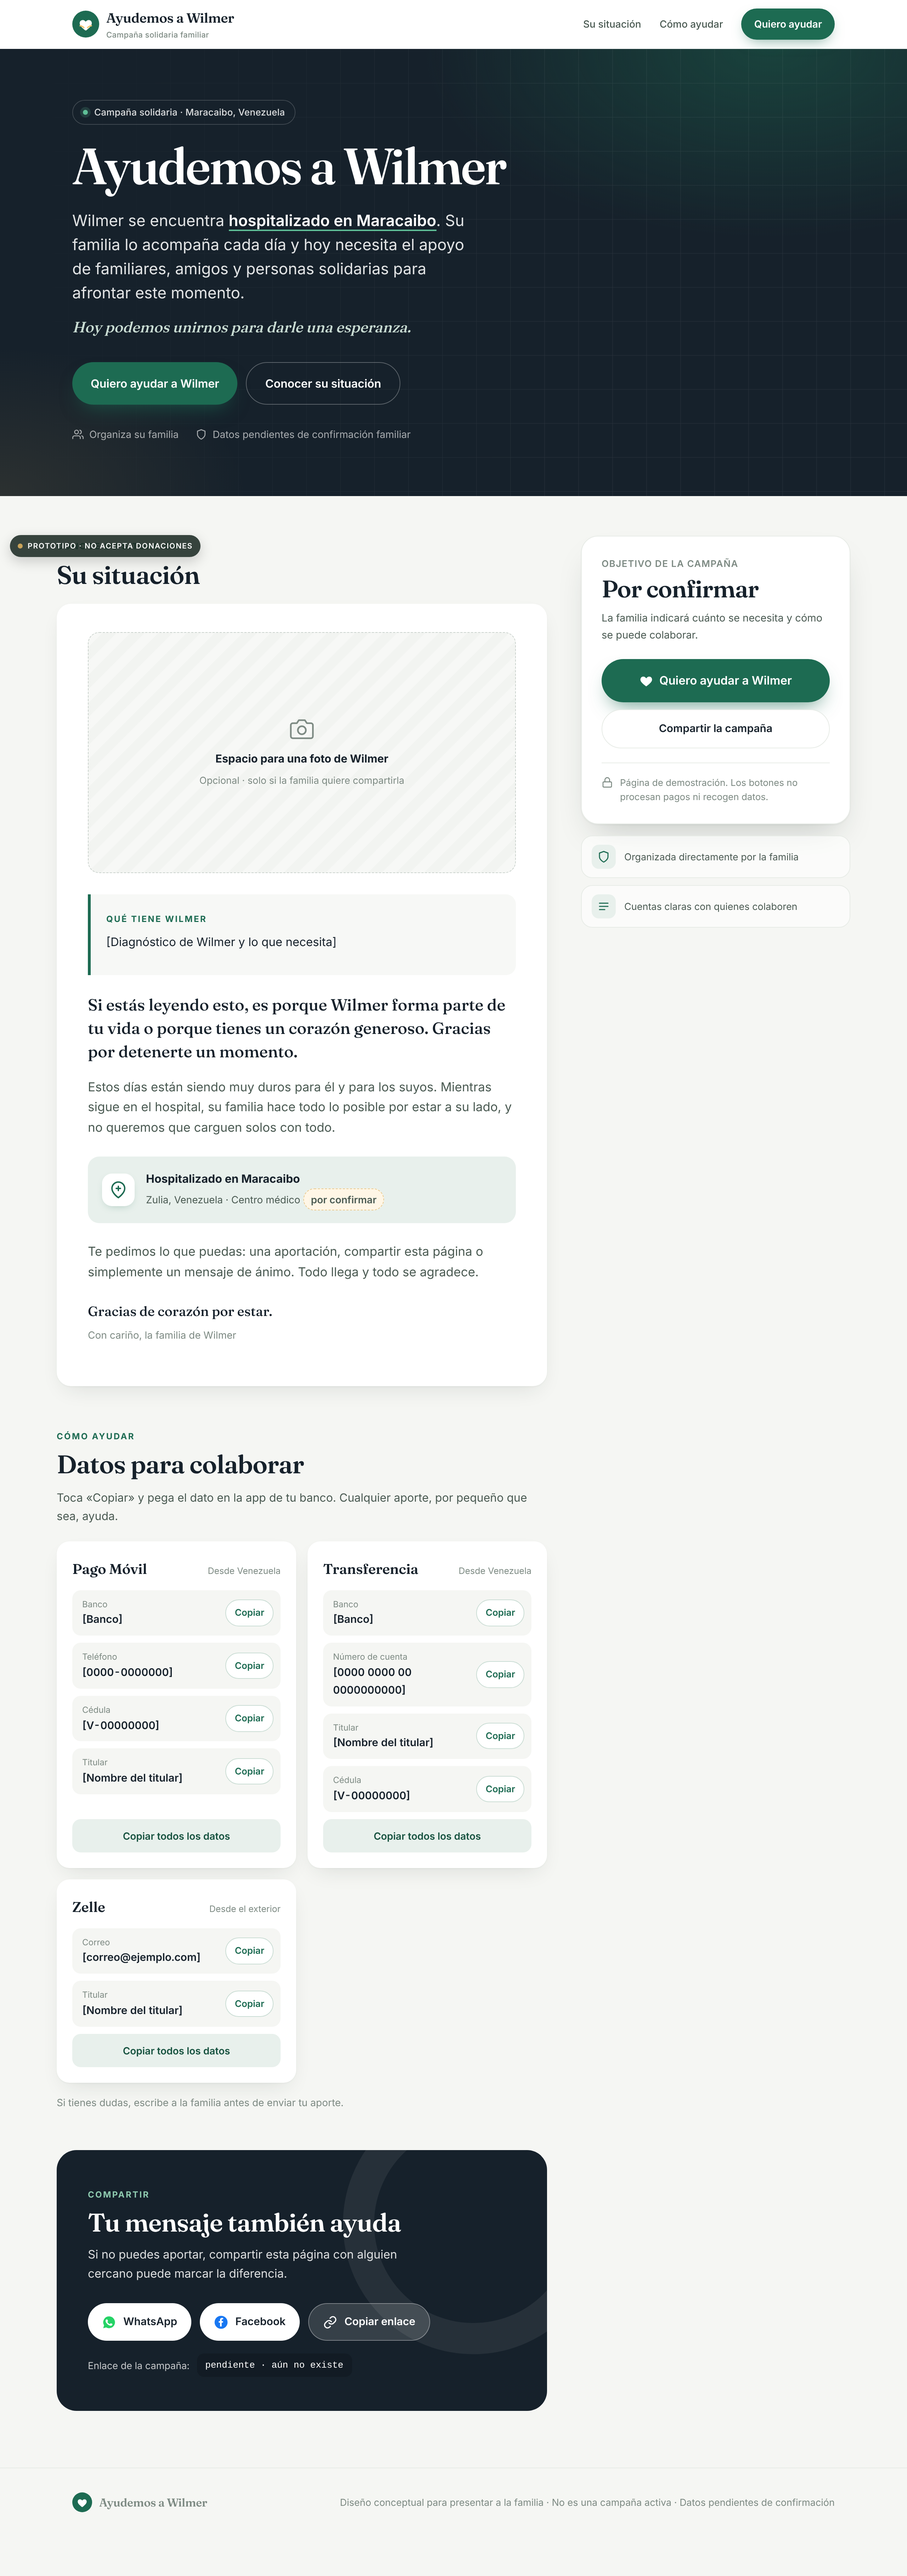
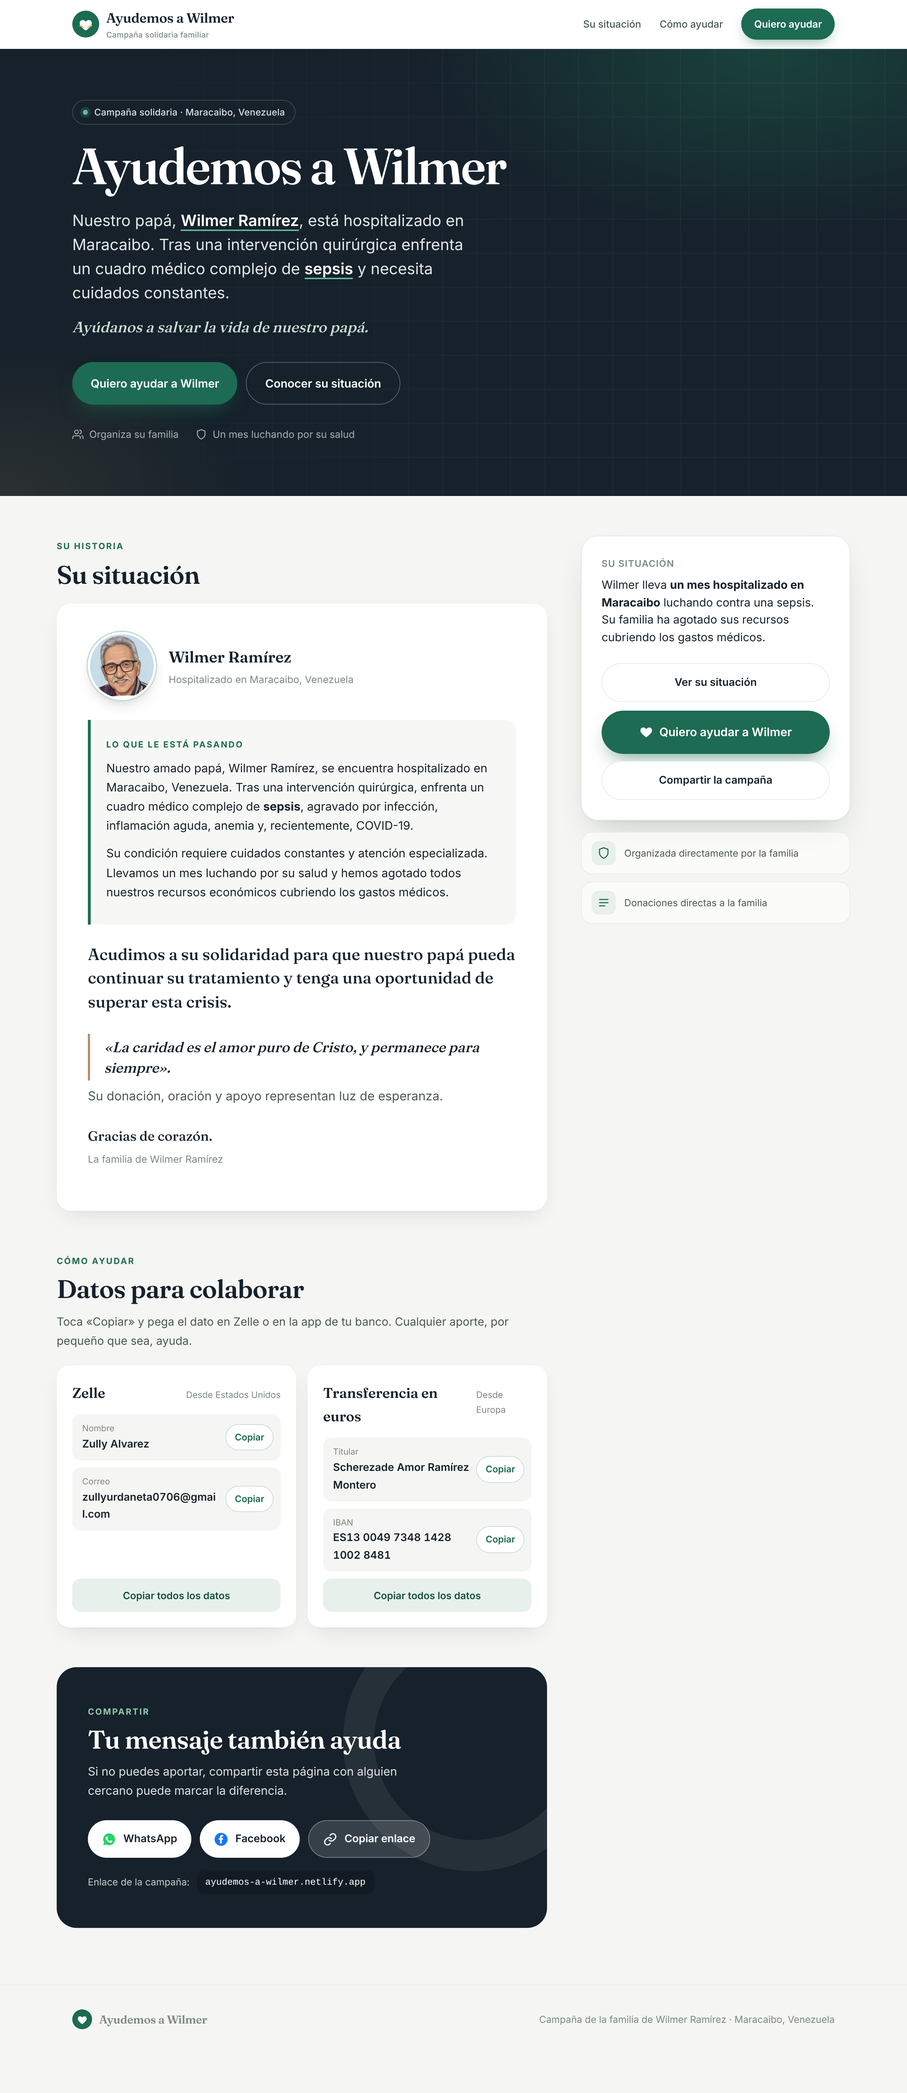
Campaña Wilmer: texto y datos de donación del folleto de la familia
Claude-Session: https://claude.ai/code/session_01EJB8HmAiv8gsMqL4w5jTpA

diff --git a/prototipos/campana-wilmer.html b/prototipos/campana-wilmer.html
@@ -4,7 +4,7 @@
 <meta charset="utf-8">
 <meta name="viewport" content="width=device-width, initial-scale=1, viewport-fit=cover">
 <meta name="robots" content="noindex, nofollow">
-<title>Ayudemos a Wilmer · Prototipo (no acepta donaciones)</title>
+<title>Ayudemos a Wilmer Ramírez</title>
 <link rel="preconnect" href="https://fonts.googleapis.com">
 <link rel="preconnect" href="https://fonts.gstatic.com" crossorigin>
 <link href="https://fonts.googleapis.com/css2?family=Fraunces:opsz,wght@9..144,500;9..144,600;9..144,700&family=Inter:wght@400;500;600;700&display=swap" rel="stylesheet">
@@ -119,6 +119,10 @@ h3{font-size:17px;margin:0 0 6px;letter-spacing:-.005em}
 .ayudar-pie{font-size:14px;color:var(--tenue);margin:16px 0 0}
 .aviso-copia{position:fixed;left:50%;bottom:90px;transform:translate(-50%,20px);opacity:0;z-index:95;background:#16212b;color:#fff;font-size:14px;font-weight:600;padding:11px 18px;border-radius:999px;transition:opacity .25s,transform .25s;pointer-events:none}
 .aviso-copia.visible{opacity:1;transform:translate(-50%,0)}
+.retrato{margin:0 0 28px;display:flex;align-items:center;gap:18px}
+.retrato img{width:96px;height:96px;border-radius:50%;object-fit:cover;border:3px solid #fff;box-shadow:0 0 0 2px var(--verde-menta),0 10px 24px -12px rgba(22,33,43,.4)}
+.retrato b{display:block;font-family:var(--serif);font-size:22px;font-weight:600}
+.retrato span{font-size:14px;color:var(--tenue)}
 .cita{border-left:3px solid var(--melocoton);padding:4px 0 4px 20px;margin:28px 0 8px;font-family:var(--serif);font-style:italic;font-size:20px;color:var(--tinta);line-height:1.45}
 .pendiente{display:inline-flex;align-items:center;gap:6px;background:#fff6e6;color:#8a5a12;border:1px dashed #e9c98d;
   font-size:12.5px;font-weight:600;padding:3px 10px;border-radius:999px;white-space:nowrap}
@@ -266,7 +270,6 @@ footer{border-top:1px solid var(--linea);padding:34px 0 90px;font-size:13.5px;co
 </head>
 <body>
 
-<div class="prototipo" role="note" aria-label="Prototipo, no acepta donaciones"><i></i>PROTOTIPO · NO ACEPTA DONACIONES</div>
 
 <!-- ============ CABECERA ============ -->
 <header id="cabecera">
@@ -294,15 +297,15 @@ footer{border-top:1px solid var(--linea);padding:34px 0 90px;font-size:13.5px;co
     <div class="envoltura portada-int">
       <span class="sello aparece"><span class="punto"></span>Campaña solidaria · Maracaibo, Venezuela</span>
       <h1 class="aparece retraso-1">Ayudemos a Wilmer</h1>
-      <p class="situacion aparece retraso-2">Wilmer se encuentra <strong>hospitalizado en Maracaibo</strong>. Su familia lo acompaña cada día y hoy necesita el apoyo de familiares, amigos y personas solidarias para afrontar este momento.</p>
-      <p class="subtitulo aparece retraso-2">Hoy podemos unirnos para darle una esperanza.</p>
+      <p class="situacion aparece retraso-2">Nuestro papá, <strong>Wilmer Ramírez</strong>, está hospitalizado en Maracaibo. Tras una intervención quirúrgica enfrenta un cuadro médico complejo de <strong>sepsis</strong> y necesita cuidados constantes.</p>
+      <p class="subtitulo aparece retraso-2">Ayúdanos a salvar la vida de nuestro papá.</p>
       <div class="portada-acciones aparece retraso-3">
         <button class="btn btn-ayudar" data-ir="ayudar">Quiero ayudar a Wilmer</button>
         <button class="btn btn-claro" data-demo="situacion">Conocer su situación</button>
       </div>
       <div class="portada-datos aparece retraso-3">
         <span><svg width="16" height="16" viewBox="0 0 24 24" fill="none" stroke="currentColor" stroke-width="2" stroke-linecap="round" stroke-linejoin="round" aria-hidden="true"><path d="M17 21v-2a4 4 0 0 0-4-4H5a4 4 0 0 0-4 4v2"/><circle cx="9" cy="7" r="4"/><path d="M23 21v-2a4 4 0 0 0-3-3.9M16 3.1a4 4 0 0 1 0 7.8"/></svg>Organiza su familia</span>
-        <span><svg width="16" height="16" viewBox="0 0 24 24" fill="none" stroke="currentColor" stroke-width="2" stroke-linecap="round" stroke-linejoin="round" aria-hidden="true"><path d="M12 22s8-4 8-10V5l-8-3-8 3v7c0 6 8 10 8 10z"/></svg>Datos pendientes de confirmación familiar</span>
+        <span><svg width="16" height="16" viewBox="0 0 24 24" fill="none" stroke="currentColor" stroke-width="2" stroke-linecap="round" stroke-linejoin="round" aria-hidden="true"><path d="M12 22s8-4 8-10V5l-8-3-8 3v7c0 6 8 10 8 10z"/></svg>Un mes luchando por su salud</span>
       </div>
     </div>
   </section>
@@ -316,31 +319,19 @@ footer{border-top:1px solid var(--linea);padding:34px 0 90px;font-size:13.5px;co
         <span class="antetitulo">Su historia</span>
         <h2>Su situación</h2>
         <article class="historia">
-          <figure class="foto">
-            <svg width="34" height="34" viewBox="0 0 24 24" fill="none" stroke="#7d8a83" stroke-width="1.6" stroke-linecap="round" stroke-linejoin="round" aria-hidden="true"><path d="M23 19a2 2 0 0 1-2 2H3a2 2 0 0 1-2-2V8a2 2 0 0 1 2-2h4l2-3h6l2 3h4a2 2 0 0 1 2 2z"/><circle cx="12" cy="13" r="4"/></svg>
-            <b>Espacio para una foto de Wilmer</b>
-            <span>Opcional · solo si la familia quiere compartirla</span>
-          </figure>
[1 lines of base64/hex data omitted]
 
           <div class="caso">
-            <span class="antetitulo">Su situación actual</span>
-            <p class="caso-hueco">Wilmer se encuentra hospitalizado en Maracaibo y atraviesa una situación de salud delicada. Permanece bajo atención médica y su familia lo acompaña cada día.</p>
-            <p class="caso-hueco">En momentos así, los gastos de atención médica, medicinas y traslados se acumulan muy rápido. Por eso su familia necesita el apoyo de familiares, amigos y personas solidarias para poder afrontarlos.</p>
+            <span class="antetitulo">Lo que le está pasando</span>
+            <p class="caso-hueco">Nuestro amado papá, Wilmer Ramírez, se encuentra hospitalizado en Maracaibo, Venezuela. Tras una intervención quirúrgica, enfrenta un cuadro médico complejo de <b>sepsis</b>, agravado por infección, inflamación aguda, anemia y, recientemente, COVID-19.</p>
+            <p class="caso-hueco">Su condición requiere cuidados constantes y atención especializada. Llevamos un mes luchando por su salud y hemos agotado todos nuestros recursos económicos cubriendo los gastos médicos.</p>
           </div>
 
-          <p class="entrada">Si estás leyendo esto, es porque Wilmer forma parte de tu vida o porque tienes un corazón generoso. Gracias por detenerte un momento.</p>
+          <p class="entrada">Acudimos a su solidaridad para que nuestro papá pueda continuar su tratamiento y tenga una oportunidad de superar esta crisis.</p>
 
-          <p>Estos días están siendo muy duros para él y para los suyos. Mientras sigue en el hospital, su familia hace todo lo posible por estar a su lado, y no queremos que carguen solos con todo.</p>
-
-          <div class="lugar">
-            <div class="ico">
-              <svg width="24" height="24" viewBox="0 0 24 24" fill="none" stroke="#1d6b52" stroke-width="2" stroke-linecap="round" stroke-linejoin="round" aria-hidden="true"><path d="M21 10c0 7-9 13-9 13S3 17 3 10a9 9 0 0 1 18 0z"/><path d="M12 7v6M9 10h6"/></svg>
-            </div>
-            <div><b>Hospitalizado en Maracaibo</b><span>Zulia, Venezuela · Centro médico <span class="pendiente">por confirmar</span></span></div>
-          </div>
-
-          <p>Te pedimos lo que puedas: una aportación, compartir esta página o simplemente un mensaje de ánimo. Todo llega y todo se agradece.</p>
-          <p class="firma">Gracias de corazón por estar.<br><span>Con cariño, la familia de Wilmer</span></p>
+          <blockquote class="cita">«La caridad es el amor puro de Cristo, y permanece para siempre».</blockquote>
+          <p>Su donación, oración y apoyo representan luz de esperanza.</p>
+          <p class="firma">Gracias de corazón.<br><span>La familia de Wilmer Ramírez</span></p>
         </article>
       </section>
 
@@ -348,32 +339,21 @@ footer{border-top:1px solid var(--linea);padding:34px 0 90px;font-size:13.5px;co
       <section id="ayudar" class="bloque aparece">
         <span class="antetitulo">Cómo ayudar</span>
         <h2>Datos para colaborar</h2>
-        <p class="ayudar-intro">Toca «Copiar» y pega el dato en la app de tu banco. Cualquier aporte, por pequeño que sea, ayuda.</p>
+        <p class="ayudar-intro">Toca «Copiar» y pega el dato en Zelle o en la app de tu banco. Cualquier aporte, por pequeño que sea, ayuda.</p>
         <div class="cuentas">
           <div class="cuenta">
-            <div class="cuenta-cab"><h3>Pago Móvil</h3><span>Desde Venezuela</span></div>
-            <div class="dato"><div><small>Banco</small><b>[Banco]</b></div><button class="copiar" data-copiar="[Banco]" aria-label="Copiar banco">Copiar</button></div>
-            <div class="dato"><div><small>Teléfono</small><b>[0000-0000000]</b></div><button class="copiar" data-copiar="[0000-0000000]" aria-label="Copiar teléfono">Copiar</button></div>
-            <div class="dato"><div><small>Cédula</small><b>[V-00000000]</b></div><button class="copiar" data-copiar="[V-00000000]" aria-label="Copiar cédula">Copiar</button></div>
-            <div class="dato"><div><small>Titular</small><b>[Nombre del titular]</b></div><button class="copiar" data-copiar="[Nombre del titular]" aria-label="Copiar titular">Copiar</button></div>
-            <button class="copiar-todo" data-copiar="Banco: [Banco] · Teléfono: [0000-0000000] · Cédula: [V-00000000] · Titular: [Nombre del titular]">Copiar todos los datos</button>
+            <div class="cuenta-cab"><h3>Zelle</h3><span>Desde Estados Unidos</span></div>
+            <div class="dato"><div><small>Nombre</small><b>Zully Alvarez</b></div><button class="copiar" data-copiar="Zully Alvarez" aria-label="Copiar nombre">Copiar</button></div>
+            <div class="dato"><div><small>Correo</small><b>zullyurdaneta0706@gmail.com</b></div><button class="copiar" data-copiar="zullyurdaneta0706@gmail.com" aria-label="Copiar correo">Copiar</button></div>
+            <button class="copiar-todo" data-copiar="Zelle · Nombre: Zully Alvarez · Correo: zullyurdaneta0706@gmail.com">Copiar todos los datos</button>
           </div>
           <div class="cuenta">
-            <div class="cuenta-cab"><h3>Transferencia</h3><span>Desde Venezuela</span></div>
-            <div class="dato"><div><small>Banco</small><b>[Banco]</b></div><button class="copiar" data-copiar="[Banco]" aria-label="Copiar banco">Copiar</button></div>
-            <div class="dato"><div><small>Número de cuenta</small><b>[0000 0000 00 0000000000]</b></div><button class="copiar" data-copiar="[0000 0000 00 0000000000]" aria-label="Copiar número de cuenta">Copiar</button></div>
-            <div class="dato"><div><small>Titular</small><b>[Nombre del titular]</b></div><button class="copiar" data-copiar="[Nombre del titular]" aria-label="Copiar titular">Copiar</button></div>
-            <div class="dato"><div><small>Cédula</small><b>[V-00000000]</b></div><button class="copiar" data-copiar="[V-00000000]" aria-label="Copiar cédula">Copiar</button></div>
-            <button class="copiar-todo" data-copiar="Banco: [Banco] · Número de cuenta: [0000 0000 00 0000000000] · Titular: [Nombre del titular] · Cédula: [V-00000000]">Copiar todos los datos</button>
-          </div>
-          <div class="cuenta">
-            <div class="cuenta-cab"><h3>Zelle</h3><span>Desde el exterior</span></div>
-            <div class="dato"><div><small>Correo</small><b>[correo@ejemplo.com]</b></div><button class="copiar" data-copiar="[correo@ejemplo.com]" aria-label="Copiar correo">Copiar</button></div>
-            <div class="dato"><div><small>Titular</small><b>[Nombre del titular]</b></div><button class="copiar" data-copiar="[Nombre del titular]" aria-label="Copiar titular">Copiar</button></div>
-            <button class="copiar-todo" data-copiar="Correo: [correo@ejemplo.com] · Titular: [Nombre del titular]">Copiar todos los datos</button>
+            <div class="cuenta-cab"><h3>Transferencia en euros</h3><span>Desde Europa</span></div>
+            <div class="dato"><div><small>Titular</small><b>Scherezade Amor Ramírez Montero</b></div><button class="copiar" data-copiar="Scherezade Amor Ramírez Montero" aria-label="Copiar titular">Copiar</button></div>
+            <div class="dato"><div><small>IBAN</small><b>ES13 0049 7348 1428 1002 8481</b></div><button class="copiar" data-copiar="ES1300497348142810028481" aria-label="Copiar iban">Copiar</button></div>
+            <button class="copiar-todo" data-copiar="Titular: Scherezade Amor Ramírez Montero · IBAN: ES13 0049 7348 1428 1002 8481">Copiar todos los datos</button>
           </div>
         </div>
-        <p class="ayudar-pie">Si tienes dudas, escribe a la familia antes de enviar tu aporte.</p>
       </section>
 
       <!-- ============ COMPARTIR ============ -->
@@ -382,21 +362,21 @@ footer{border-top:1px solid var(--linea);padding:34px 0 90px;font-size:13.5px;co
         <h2>Tu mensaje también ayuda</h2>
         <p>Si no puedes aportar, compartir esta página con alguien cercano puede marcar la diferencia.</p>
         <div class="redes">
-          <button class="red" data-demo="whatsapp">
+          <button class="red" data-red="whatsapp">
             <svg width="20" height="20" viewBox="0 0 24 24" aria-hidden="true"><path fill="#25D366" d="M12 2a10 10 0 0 0-8.6 15.1L2 22l5-1.3A10 10 0 1 0 12 2z"/><path fill="#fff" d="M17.1 14.6c-.3-.1-1.7-.8-1.9-.9-.3-.1-.5-.1-.7.1l-.9 1.1c-.2.2-.3.2-.6.1-1.6-.8-2.7-1.5-3.8-3.3-.3-.5.3-.5.8-1.6.1-.2 0-.4 0-.5l-.9-2.1c-.2-.6-.5-.5-.7-.5h-.6c-.2 0-.5.1-.8.4-.3.3-1 1-1 2.4s1 2.8 1.2 3c.1.2 2 3.1 4.9 4.3 1.8.8 2.5.8 3.4.7.6-.1 1.7-.7 1.9-1.4.2-.7.2-1.2.2-1.4-.1-.2-.3-.3-.5-.4z"/></svg>
             WhatsApp
           </button>
-          <button class="red" data-demo="facebook">
+          <button class="red" data-red="facebook">
             <svg width="20" height="20" viewBox="0 0 24 24" aria-hidden="true"><circle cx="12" cy="12" r="11" fill="#1877F2"/><path fill="#fff" d="M15.1 12.6l.4-2.6H13V8.3c0-.7.4-1.4 1.5-1.4h1.1V4.7s-1-.2-2-.2c-2.1 0-3.4 1.3-3.4 3.5V10H8v2.6h2.2V19h2.8v-6.4z"/></svg>
             Facebook
           </button>
-          <button class="red transp" data-demo="copiar">
+          <button class="red transp" data-copiar="https://ayudemos-a-wilmer.netlify.app/">
             <svg width="20" height="20" viewBox="0 0 24 24" fill="none" stroke="currentColor" stroke-width="2" stroke-linecap="round" stroke-linejoin="round" aria-hidden="true"><path d="M10 13a5 5 0 0 0 7.5.5l3-3a5 5 0 0 0-7-7l-1.7 1.7"/><path d="M14 11a5 5 0 0 0-7.5-.5l-3 3a5 5 0 0 0 7 7l1.7-1.7"/></svg>
             Copiar enlace
           </button>
         </div>
         <div class="enlace-demo">
-          <span>Enlace de la campaña:</span><code>pendiente · aún no existe</code>
+          <span>Enlace de la campaña:</span><code>ayudemos-a-wilmer.netlify.app</code>
         </div>
       </section>
 
@@ -406,7 +386,7 @@ footer{border-top:1px solid var(--linea);padding:34px 0 90px;font-size:13.5px;co
     <aside class="lateral aparece" aria-label="Recaudación">
       <div class="panel">
         <div class="panel-objetivo-etq">Su situación</div>
-        <p class="panel-resumen">Wilmer está <b>hospitalizado en Maracaibo</b> en una situación de salud delicada. Su familia necesita nuestro apoyo.</p>
+        <p class="panel-resumen">Wilmer lleva <b>un mes hospitalizado en Maracaibo</b> luchando contra una sepsis. Su familia ha agotado sus recursos cubriendo los gastos médicos.</p>
         <button class="btn btn-borde btn-situacion" data-demo="situacion">Ver su situación</button>
 
         <button class="btn btn-ayudar" data-ir="ayudar">
@@ -414,11 +394,6 @@ footer{border-top:1px solid var(--linea);padding:34px 0 90px;font-size:13.5px;co
           Quiero ayudar a Wilmer
         </button>
         <button class="btn btn-borde" data-ir="compartir">Compartir la campaña</button>
-
-        <div class="panel-pie">
-          <svg width="16" height="16" viewBox="0 0 24 24" fill="none" stroke="#7d8a83" stroke-width="2" stroke-linecap="round" stroke-linejoin="round" aria-hidden="true"><rect x="3" y="11" width="18" height="11" rx="2"/><path d="M7 11V7a5 5 0 0 1 10 0v4"/></svg>
-          <span>Página de demostración. Los botones no procesan pagos ni recogen datos.</span>
-        </div>
       </div>
 
       <div class="garantias">
@@ -428,7 +403,7 @@ footer{border-top:1px solid var(--linea);padding:34px 0 90px;font-size:13.5px;co
         </div>
         <div class="garantia">
           <span class="ico"><svg width="18" height="18" viewBox="0 0 24 24" fill="none" stroke="#1d6b52" stroke-width="2" stroke-linecap="round" stroke-linejoin="round" aria-hidden="true"><path d="M4 12h16M4 6h16M4 18h10"/></svg></span>
-          Cuentas claras con quienes colaboren
+          Donaciones directas a la familia
         </div>
       </div>
     </aside>
@@ -442,7 +417,7 @@ footer{border-top:1px solid var(--linea);padding:34px 0 90px;font-size:13.5px;co
       <svg width="28" height="28" viewBox="0 0 40 40" aria-hidden="true"><circle cx="20" cy="20" r="20" fill="#1d6b52"/><path d="M20 29.5c-.4 0-.8-.1-1.1-.4C14.6 25.6 11 22.6 11 18.6 11 15.9 13 14 15.5 14c1.8 0 3.3.9 4.5 2.5 1.2-1.6 2.7-2.5 4.5-2.5 2.5 0 4.5 1.9 4.5 4.6 0 4-3.6 7-7.9 10.5-.3.3-.7.4-1.1.4z" fill="#fff"/></svg>
       <b>Ayudemos a Wilmer</b>
     </span>
-    <span>Diseño conceptual para presentar a la familia · No es una campaña activa · Datos pendientes de confirmación</span>
+    <span>Campaña de la familia de Wilmer Ramírez · Maracaibo, Venezuela</span>
   </div>
 </footer>
 
@@ -473,11 +448,7 @@ footer{border-top:1px solid var(--linea);padding:34px 0 90px;font-size:13.5px;co
   var enlace = '<svg width="28" height="28" viewBox="0 0 24 24" fill="none" stroke="#1d6b52" stroke-width="2" stroke-linecap="round" stroke-linejoin="round"><path d="M10 13a5 5 0 0 0 7.5.5l3-3a5 5 0 0 0-7-7l-1.7 1.7"/><path d="M14 11a5 5 0 0 0-7.5-.5l-3 3a5 5 0 0 0 7 7l1.7-1.7"/></svg>';
 
   var mensajes = {
-    situacion: { i: corazon, t: 'La situación de Wilmer', x: 'Wilmer se encuentra hospitalizado en Maracaibo y atraviesa una situación de salud delicada. Permanece bajo atención médica y su familia lo acompaña cada día. En momentos así, los gastos de atención médica, medicinas y traslados se acumulan muy rápido. Por eso su familia necesita el apoyo de familiares, amigos y personas solidarias para poder afrontarlos.', b: 'Quiero ayudar a Wilmer', ir: 'ayudar', real: true },
-    ayudar:   { i: corazon,   t: 'Gracias por querer ayudar', x: 'Esto es un prototipo. Este botón no procesa pagos ni recoge datos. En la versión real, aquí se indicaría la forma de colaborar que confirme la familia.' },
-    whatsapp: { i: compartir, t: 'Compartir por WhatsApp',     x: 'En esta demostración no se abre WhatsApp ni se envía ningún mensaje. En la versión real se prepararía un mensaje con el enlace de la campaña.' },
-    facebook: { i: compartir, t: 'Compartir en Facebook',      x: 'En esta demostración no se publica nada en Facebook. En la versión real se abriría la ventana para compartir el enlace de la campaña.' },
-    copiar:   { i: enlace,    t: 'Copiar enlace',              x: 'La campaña todavía no tiene enlace, así que no se ha copiado nada. En la versión real, el enlace se copiaría para pegarlo donde quieras.' }
+    situacion: { i: corazon, t: 'La situación de Wilmer', x: 'Nuestro amado papá, Wilmer Ramírez, se encuentra hospitalizado en Maracaibo, Venezuela. Tras una intervención quirúrgica, enfrenta un cuadro médico complejo de sepsis, agravado por infección, inflamación aguda, anemia y, recientemente, COVID-19. Su condición requiere cuidados constantes y atención especializada. Llevamos un mes luchando por su salud y hemos agotado todos nuestros recursos económicos cubriendo los gastos médicos.', b: 'Quiero ayudar a Wilmer', ir: 'ayudar', real: true },
   };
 
   var hoja = document.getElementById('hoja'), fondo = document.getElementById('fondo');
@@ -502,6 +473,15 @@ footer{border-top:1px solid var(--linea);padding:34px 0 90px;font-size:13.5px;co
     hoja.setAttribute('aria-hidden', 'true');
     if (ultimoFoco) ultimoFoco.focus();
   }
+
+  var URL_CAMPANA = 'https://ayudemos-a-wilmer.netlify.app/';
+  var TEXTO = 'Ayudemos a Wilmer Ramírez. Está hospitalizado en Maracaibo y su familia necesita nuestro apoyo: ';
+  document.addEventListener('click', function (e) {
+    var r = e.target.closest('[data-red]'); if (!r) return;
+    var red = r.getAttribute('data-red');
+    if (red === 'whatsapp') location.href = 'https://wa.me/?text=' + encodeURIComponent(TEXTO + URL_CAMPANA);
+    else if (red === 'facebook') window.open('https://www.facebook.com/sharer/sharer.php?u=' + encodeURIComponent(URL_CAMPANA), '_blank');
+  });
 
   var aviso = document.getElementById('avisoCopia'), tAviso;
   function avisar(t) { aviso.textContent = t; aviso.classList.add('visible'); clearTimeout(tAviso); tAviso = setTimeout(function () { aviso.classList.remove('visible'); }, 1800); }
